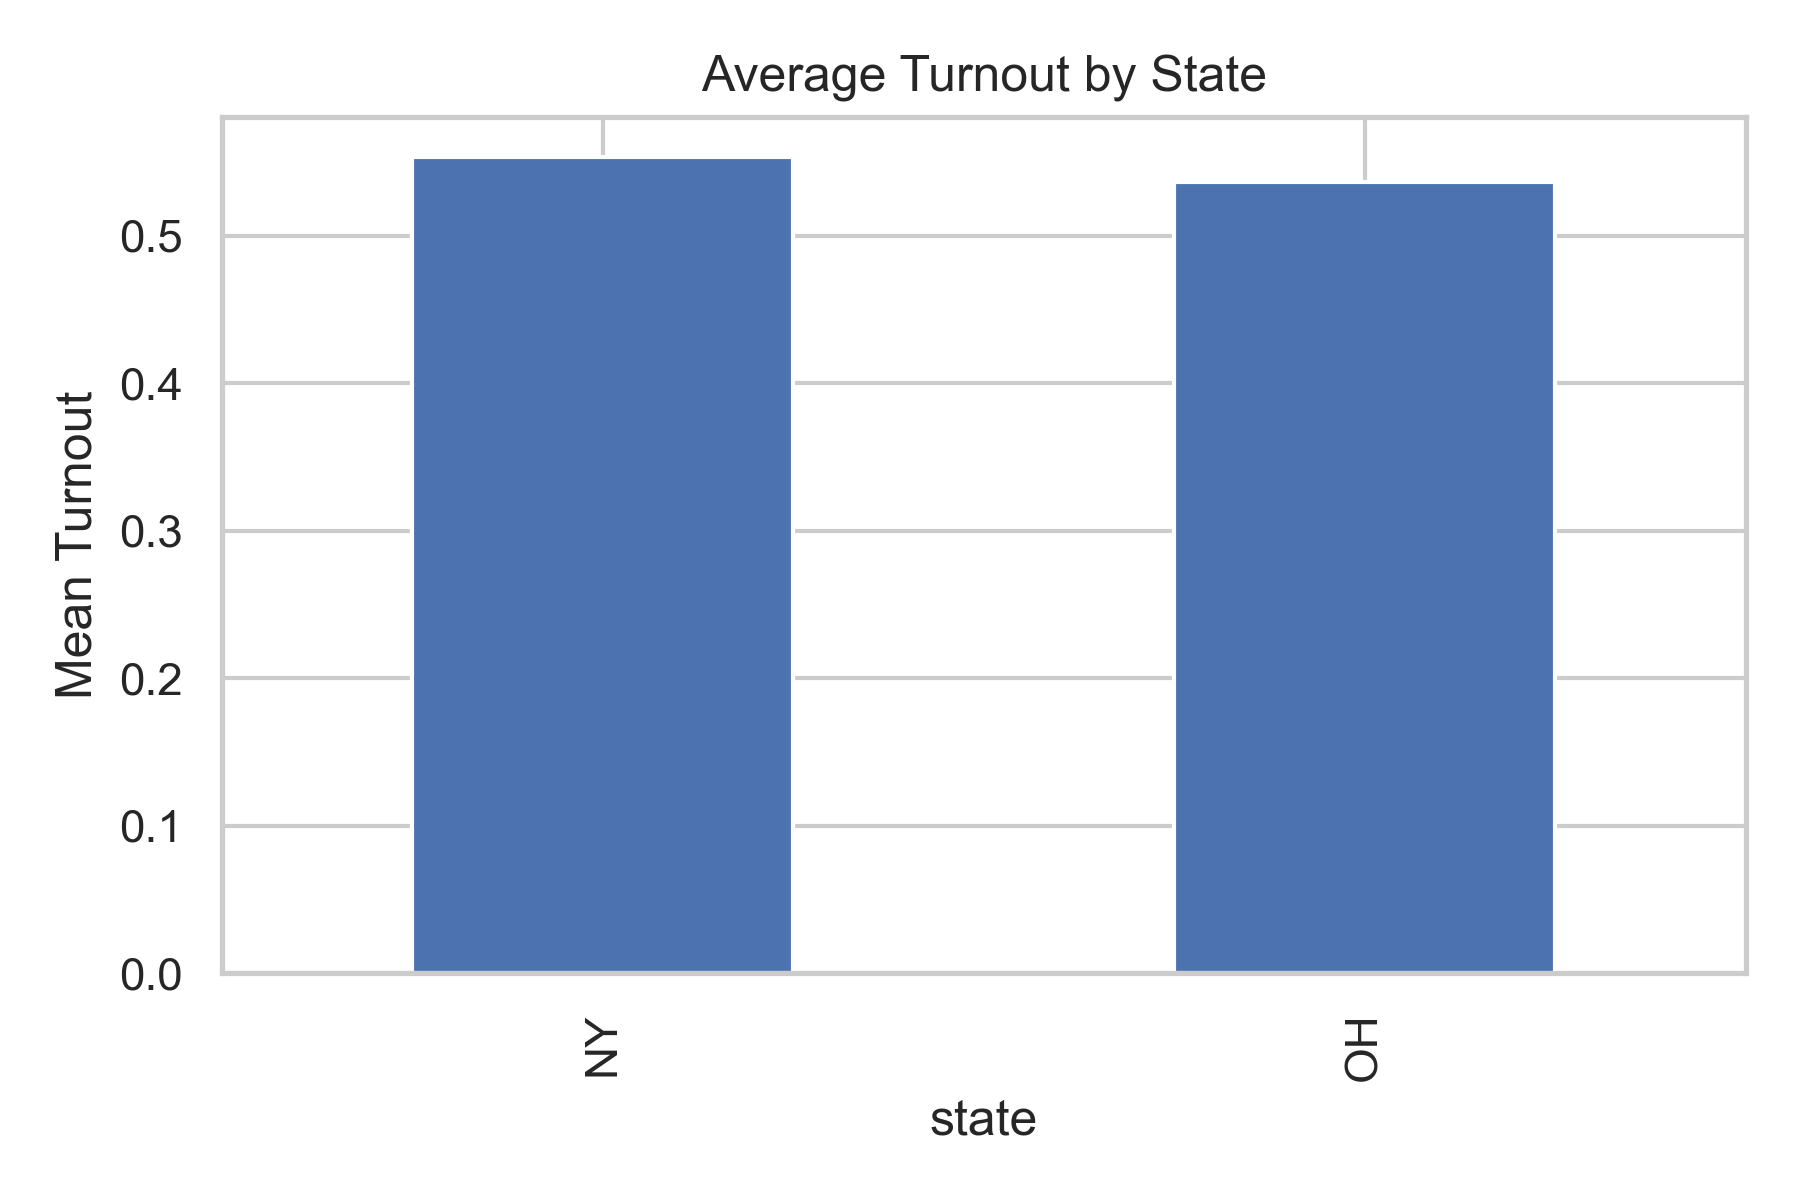
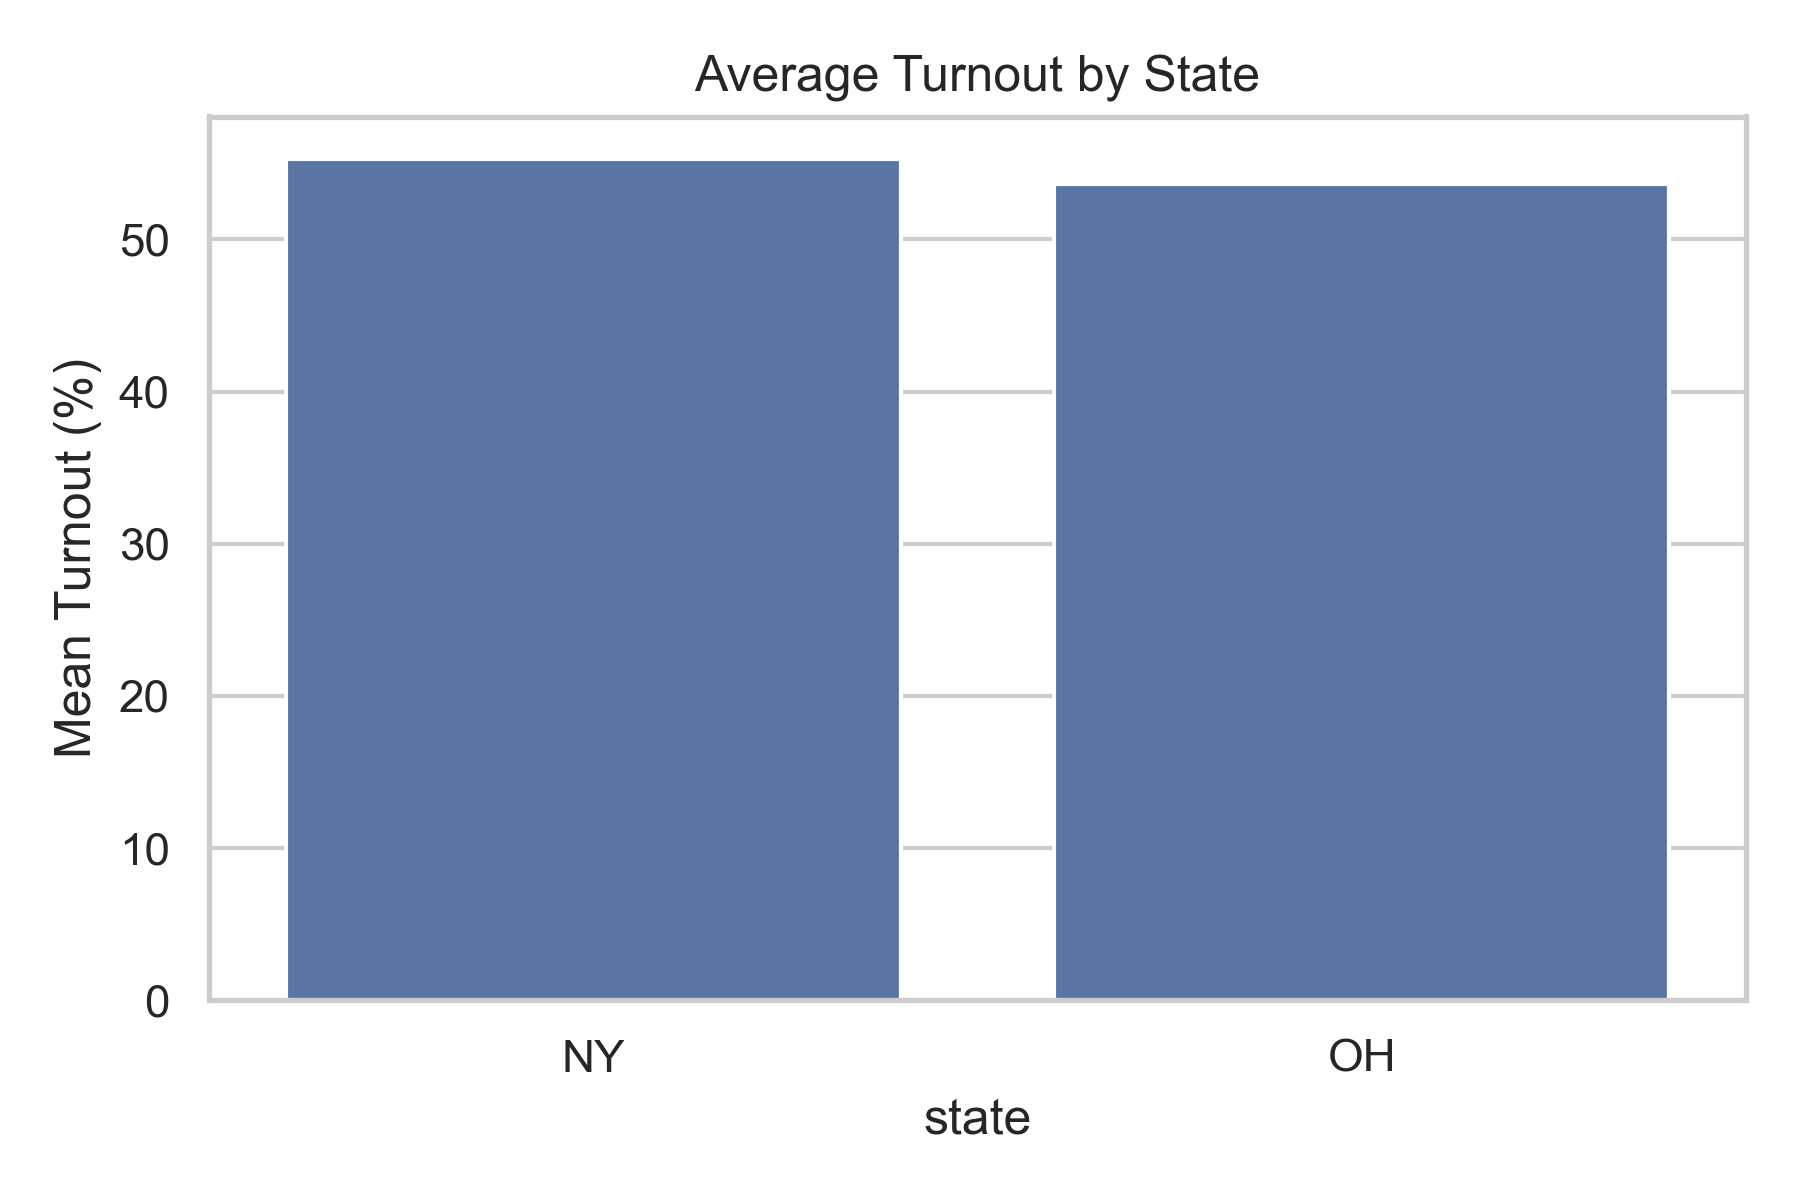
a

Changed region(s): [[0.0311, 0.0925, 0.9644, 0.8942], [0.3733, 0.0308, 0.7156, 0.0925], [0.4978, 0.8942, 0.5911, 0.9558]]

diff --git a/problemset2.py b/problemset2.py
@@ -1,7 +1,6 @@
-
-"""   
+"""
 Kerri Riley
-Program Evaluation
+Program Evaluation 
 """
 
 import os
@@ -27,7 +26,12 @@ print(df.info())
 df.head()
 
 # ----------------------------
-# Missing data plot
+# Convert turnout to percent
+# ----------------------------
+df["turnout_pct"] = df["turnout"] * 100
+
+# ----------------------------
+# Missing data
 # ----------------------------
 missing = df.isnull().mean().sort_values(ascending=False)
 
@@ -41,26 +45,23 @@ plt.savefig(f"{OUTPUT_DIR}/missing_values.png", dpi=300)
 plt.show()
 plt.close()
 
-
 # ----------------------------
-# Descriptive stats
+# Key variables
 # ----------------------------
 key_vars = [
-    "turnout", "population", "medfaminc", "per_HSeducation",
+    "turnout_pct", "population", "medfaminc", "per_HSeducation",
     "per_AfricanAmerican", "per_urban", "median_age", "log_inc"
 ]
 
-desc_stats = df[key_vars].describe().T
-print(desc_stats)
-
+print(df[key_vars].describe().T)
 
 # ----------------------------
 # Distributions
 # ----------------------------
 fig, axes = plt.subplots(2, 2, figsize=(12, 8))
 
-sns.histplot(df["turnout"], kde=True, ax=axes[0,0])
-axes[0,0].set_title("Turnout Distribution")
+sns.histplot(df["turnout_pct"], kde=True, ax=axes[0,0])
+axes[0,0].set_title("Turnout Distribution (%)")
 
 sns.histplot(df["population"], kde=True, ax=axes[0,1])
 axes[0,1].set_title("Population (Skewed)")
@@ -77,53 +78,67 @@ plt.savefig(f"{OUTPUT_DIR}/distributions.png", dpi=300)
 plt.show()
 plt.close()
 
-
 # ----------------------------
-# Registration boxplot
+# Registration (BAR)
 # ----------------------------
 plt.figure(figsize=(6,4))
-sns.boxplot(x="registration", y="turnout", data=df)
-plt.title("Turnout by Registration Regime")
-plt.tight_layout()
 
-plt.savefig(f"{OUTPUT_DIR}/turnout_by_registration.png", dpi=300)
+reg_means = df.groupby("registration")["turnout_pct"].mean().reset_index()
+
+sns.barplot(x="registration", y="turnout_pct", data=reg_means, palette="viridis")
+
+plt.title("Average Turnout by Registration Regime")
+plt.ylabel("Mean Turnout (%)")
+plt.xlabel("Registration Code")
+
+plt.tight_layout()
+plt.savefig(f"{OUTPUT_DIR}/turnout_by_registration_bar.png", dpi=300)
 plt.show()
 plt.close()
 
-
 # ----------------------------
-# Presidential election years
+# Presidential year (BAR)
 # ----------------------------
 plt.figure(figsize=(6,4))
-sns.boxplot(x="presyear", y="turnout", data=df)
-plt.title("Turnout: Presidential vs Non-Presidential Years")
-plt.tight_layout()
 
-plt.savefig(f"{OUTPUT_DIR}/turnout_by_presyear.png", dpi=300)
+pres_means = df.groupby("presyear")["turnout_pct"].mean().reset_index()
+
+sns.barplot(x="presyear", y="turnout_pct", data=pres_means, palette="Set2")
+
+plt.title("Average Turnout: Presidential vs Non-Presidential Years")
+plt.ylabel("Mean Turnout (%)")
+
+plt.tight_layout()
+plt.savefig(f"{OUTPUT_DIR}/turnout_by_presyear_bar.png", dpi=300)
 plt.show()
 plt.close()
 
-
 # ----------------------------
-# Law change effect
+# Law change (BAR)
 # ----------------------------
 plt.figure(figsize=(6,4))
-sns.boxplot(x="lawchange", y="turnout", data=df)
-plt.title("Turnout Around Law Changes")
-plt.tight_layout()
 
-plt.savefig(f"{OUTPUT_DIR}/turnout_by_lawchange.png", dpi=300)
+law_means = df.groupby("lawchange")["turnout_pct"].mean().reset_index()
+
+sns.barplot(x="lawchange", y="turnout_pct", data=law_means, palette="Set1")
+
+plt.title("Average Turnout Around Law Changes")
+plt.ylabel("Mean Turnout (%)")
+
+plt.tight_layout()
+plt.savefig(f"{OUTPUT_DIR}/turnout_by_lawchange_bar.png", dpi=300)
 plt.show()
 plt.close()
 
-
 # ----------------------------
-# Correlation heatmap
+# Correlation matrix
 # ----------------------------
 plt.figure(figsize=(10,6))
+
 corr = df[key_vars].corr()
 
 sns.heatmap(corr, annot=True, cmap="coolwarm", fmt=".2f")
+
 plt.title("Correlation Matrix (Key Variables)")
 plt.tight_layout()
 
@@ -131,12 +146,13 @@ plt.savefig(f"{OUTPUT_DIR}/correlation_matrix.png", dpi=300)
 plt.show()
 plt.close()
 
-
 # ----------------------------
 # Income vs education
 # ----------------------------
 plt.figure(figsize=(6,4))
+
 sns.scatterplot(x="log_inc", y="per_HSeducation", data=df, alpha=0.4)
+
 plt.title("Income vs Education")
 plt.tight_layout()
 
@@ -144,16 +160,19 @@ plt.savefig(f"{OUTPUT_DIR}/income_vs_education.png", dpi=300)
 plt.show()
 plt.close()
 
-
 # ----------------------------
-# State-level turnout
+# State-level turnout (BAR, percent)
 # ----------------------------
 plt.figure(figsize=(6,4))
-df.groupby("state")["turnout"].mean().plot(kind="bar")
-plt.title("Average Turnout by State")
-plt.ylabel("Mean Turnout")
-plt.tight_layout()
 
+state_means = df.groupby("state")["turnout_pct"].mean().reset_index()
+
+sns.barplot(x="state", y="turnout_pct", data=state_means)
+
+plt.title("Average Turnout by State")
+plt.ylabel("Mean Turnout (%)")
+
+plt.tight_layout()
 plt.savefig(f"{OUTPUT_DIR}/state_turnout.png", dpi=300)
 plt.show()
 plt.close()
